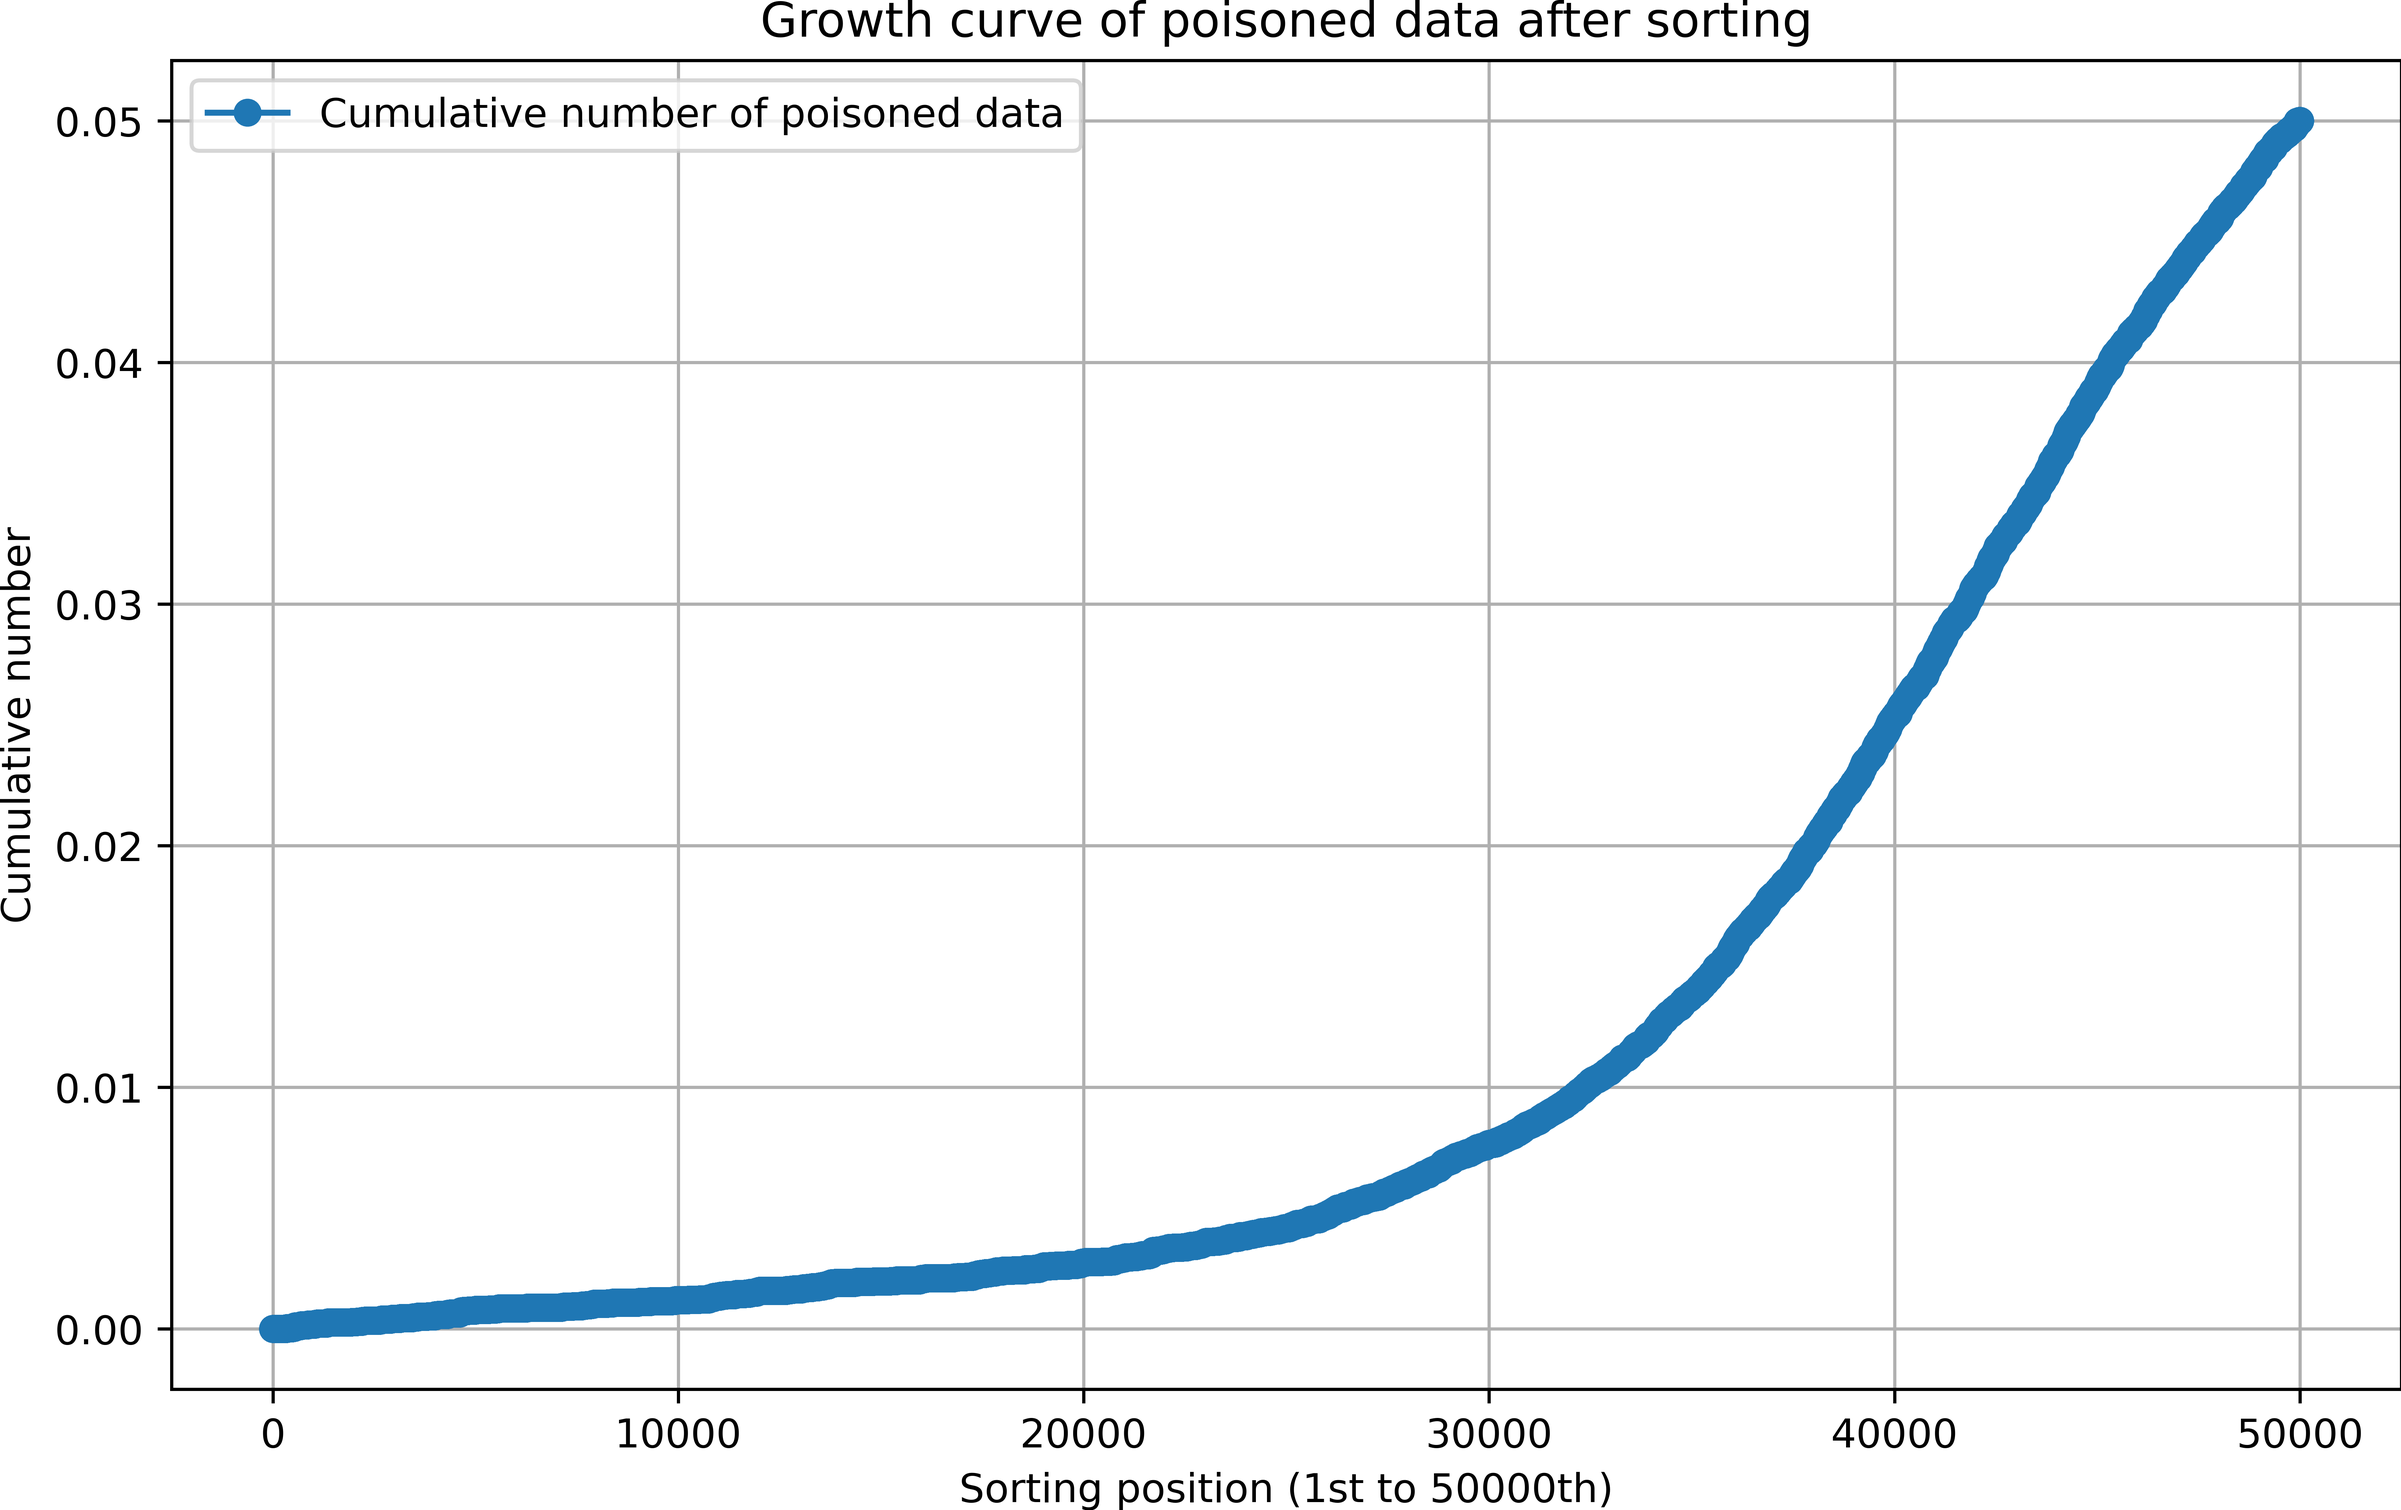
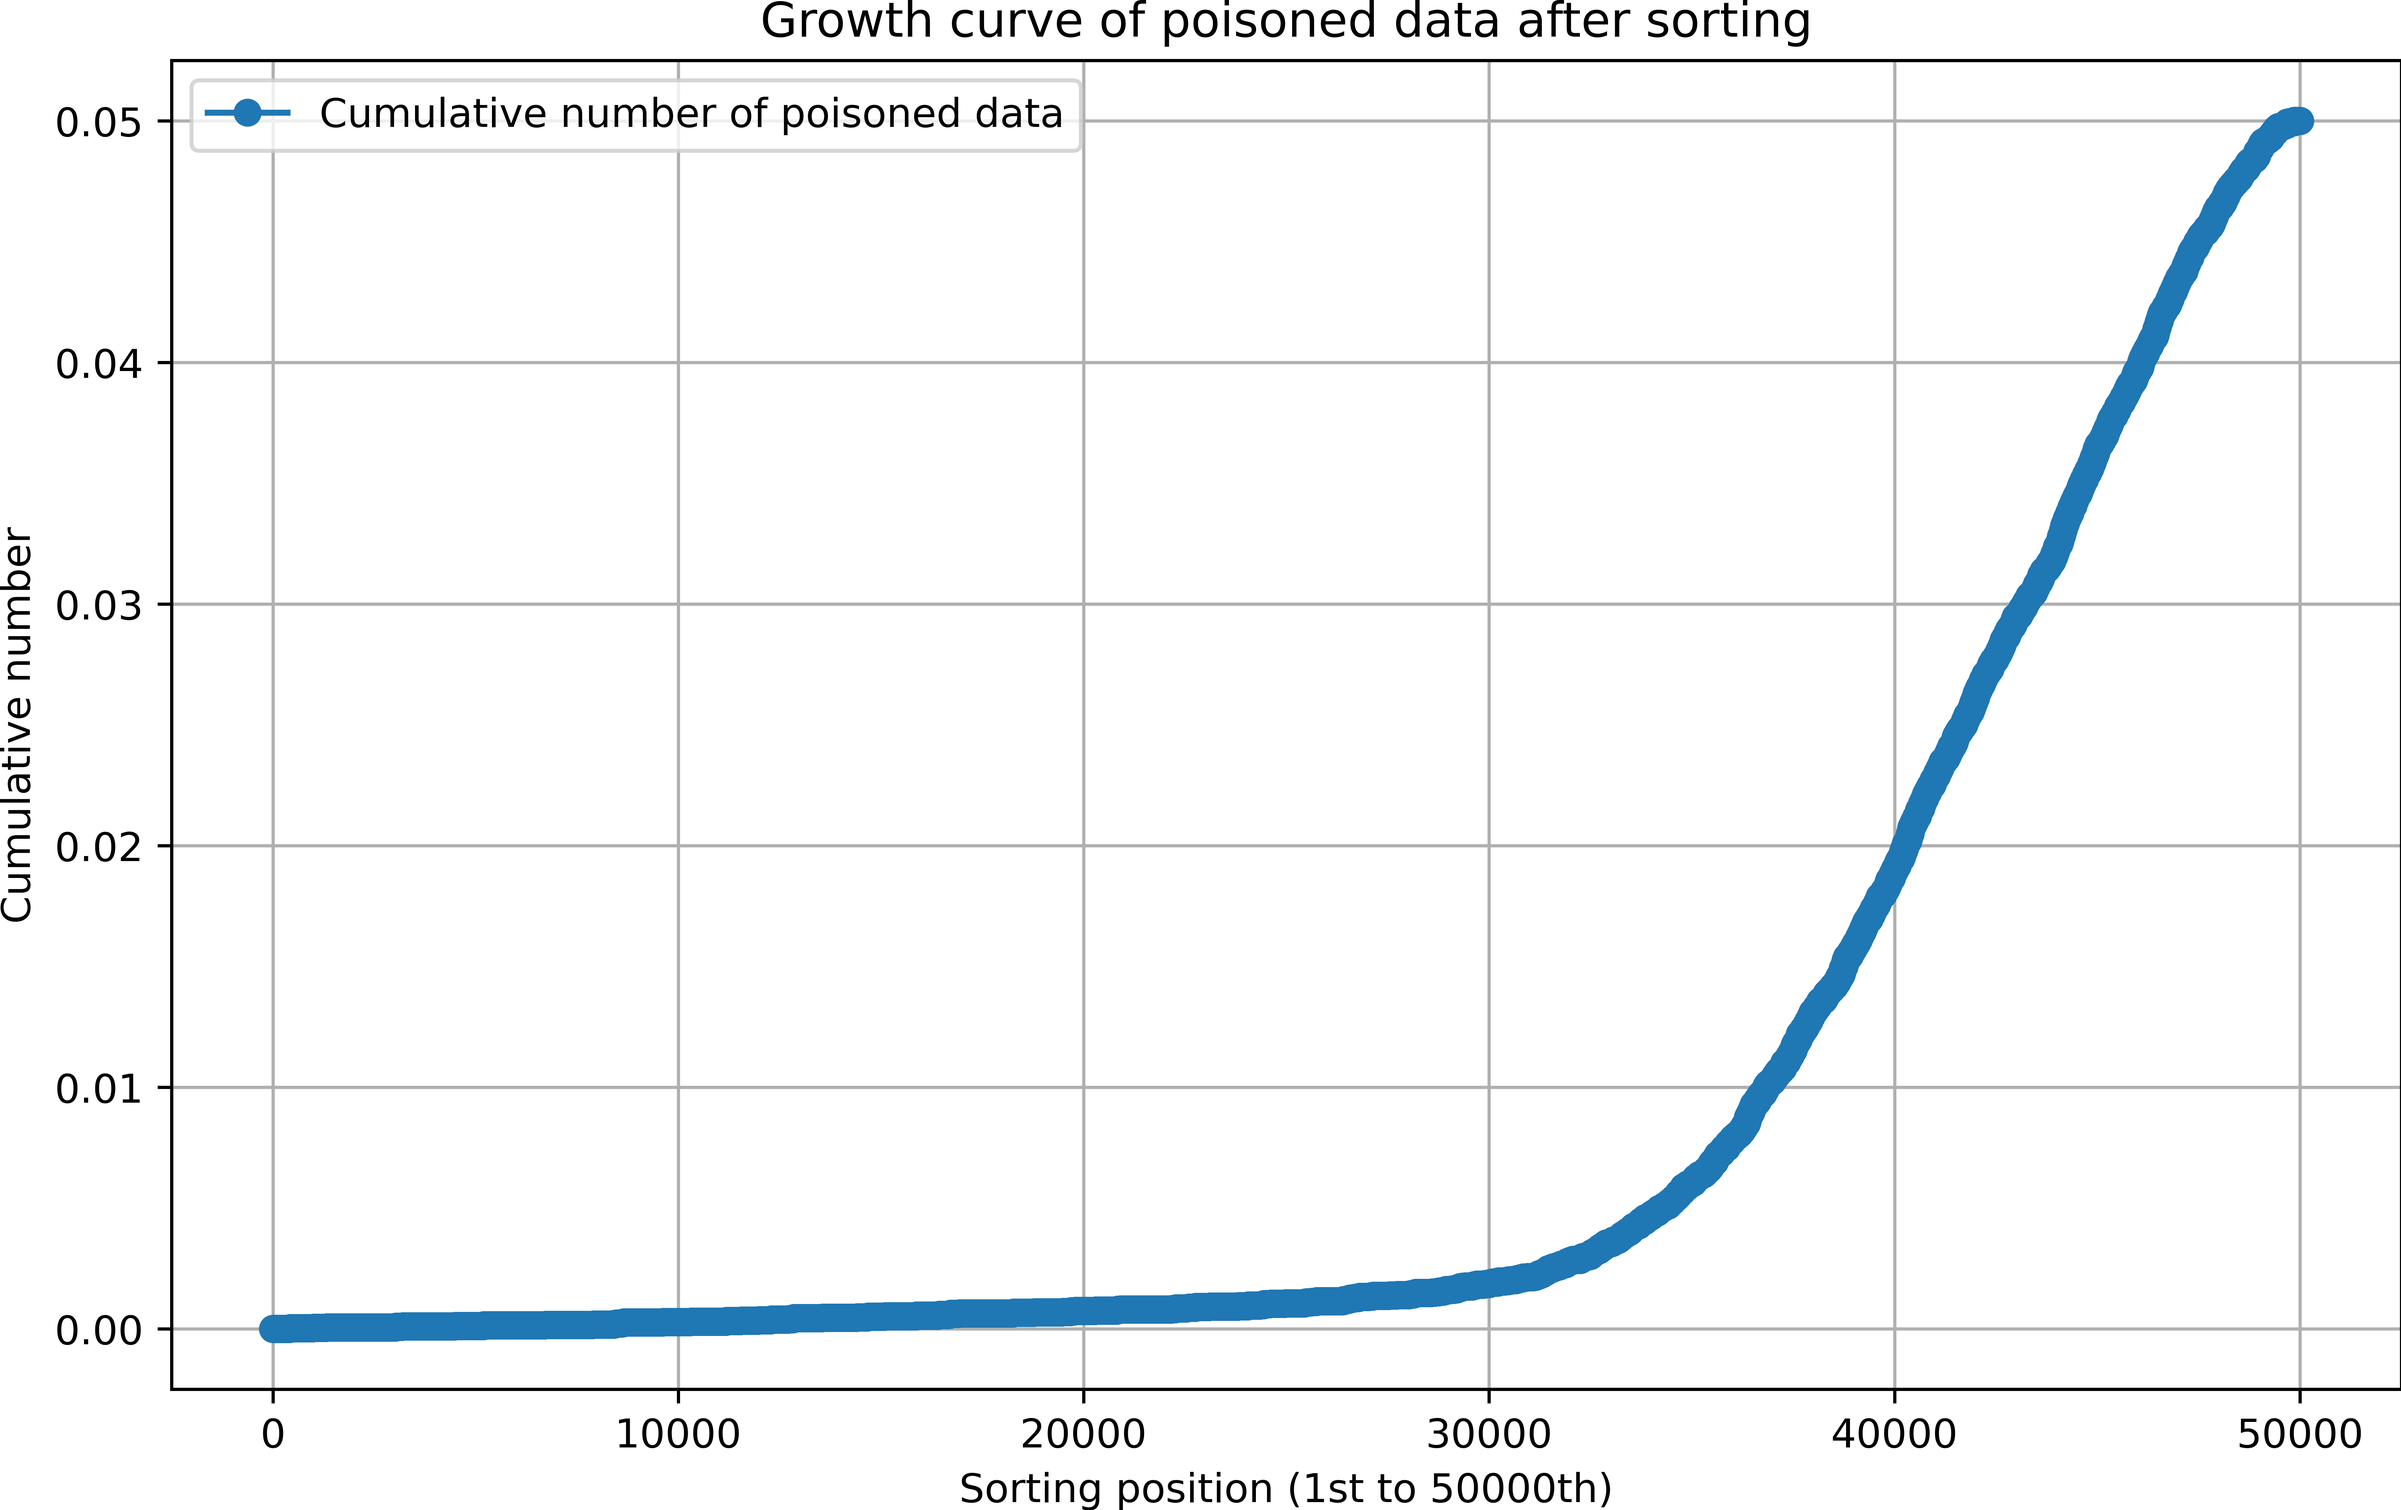
go

Changed region(s): [[0.1246, 0.1871, 0.9347, 0.9045], [0.592, 0.6862, 0.6854, 0.7798], [0.9035, 0.0624, 0.9658, 0.156]]

diff --git a/codes/ourMethod/defence.py b/codes/ourMethod/defence.py
@@ -316,6 +316,23 @@ def sampling_3(samples_num:int,ranked_sample_idx_array, cls_rank:list, label_lis
        seletcted_sample_id_list.append(s_id)
     return seletcted_sample_id_list
 
+def sampling_4(samples_num:int, loss_list:list, label_list:list, cls_rank:list) -> list:
+    # 得到label的权重系数，越大越可疑
+    coeff_dict = get_class_risk_coef(cls_rank)
+    weigth_list = []
+    for sample_id in range(len(loss_list)):
+        # loss越大越可疑
+        loss_value = loss_list[sample_id]
+        label_value = label_list[sample_id]
+        label_coeff = coeff_dict[label_value]
+        weight = loss_value * label_coeff
+        weigth_list.append(weight)
+    ranked_sample_id_list =  np.array(weigth_list).argsort().tolist()
+    seletcted_sample_id_list = ranked_sample_id_list[:samples_num]
+    return seletcted_sample_id_list
+
+
+
 def defence_train(
         model, # victim model
         class_num, # 分类数量
@@ -400,7 +417,7 @@ def defence_train(
             record_list = poison_linear_record(model, poisoned_eval_dataset_loader, split_criterion, device,dataset_name=kwargs["dataset_name"], model_name =kwargs["model_name"])
             print("Mining clean data by class-agnostic loss-guided split...")
             # 将trainset对半划分为clean pool和poisoned pool
-            split_indice =  class_agnostic_loss_guided_split(record_list, 0.5, poisoned_ids, sampling_method="method_3", class_prob_map=None, classes_rank = classes_rank) # class_prob_map=class_prob_map
+            split_indice =  class_agnostic_loss_guided_split(record_list, 0.5, poisoned_ids, sampling_method="method_4", class_prob_map=None, classes_rank = classes_rank) # class_prob_map=class_prob_map
             xdata = MixMatchDataset(poisoned_train_dataset, split_indice, labeled=True)
             udata = MixMatchDataset(poisoned_train_dataset, split_indice, labeled=False)
         elif epoch < total_epoch: # epoch:[90,120]
@@ -466,7 +483,7 @@ def defence_train(
 
             # 开始干净样本的挖掘
             print("Mining clean data by meta-split...")
-            split_indice = meta_split(record_list, meta_record_list, 0.5, poisoned_ids, sampling_method="method_3", class_prob_map=None, classes_rank = classes_rank)
+            split_indice = meta_split(record_list, meta_record_list, 0.5, poisoned_ids, sampling_method="method_4", class_prob_map=None, classes_rank = classes_rank)
 
             xdata = MixMatchDataset(poisoned_train_dataset, split_indice, labeled=True)
             udata = MixMatchDataset(poisoned_train_dataset, split_indice, labeled=False)  
@@ -644,6 +661,12 @@ def class_agnostic_loss_guided_split(record_list, ratio, poisoned_indice, sampli
         # 计算采样数
         samples_num = int(len(ranked_sample_idx_array)*ratio)
         total_indice = sampling_3(samples_num,ranked_sample_idx_array,classes_rank,gt_label_array)
+    elif sampling_method == "method_4":
+        assert classes_rank is not None, "参数不匹配"
+        loss_list = loss.tolist()
+        label_list = gt_label_array.tolist()
+        samples_num = int(len(loss_list)*ratio)
+        total_indice = sampling_4(samples_num, loss_list, label_list, classes_rank)
     else:
         total_indice = loss.argsort()[: int(len(loss) * ratio)]
     # 统计构建出的clean pool 中还混有污染样本的数量
@@ -655,7 +678,7 @@ def class_agnostic_loss_guided_split(record_list, ratio, poisoned_indice, sampli
         "{}/{} poisoned samples in clean data pool".format(poisoned_count, len(total_indice))
     )
     clean_pool_flag[total_indice] = 1
-    
+    '''
     # 额外分析与可视化
     sampling_analyse(
         loss_array = loss,
@@ -663,6 +686,7 @@ def class_agnostic_loss_guided_split(record_list, ratio, poisoned_indice, sampli
         sample_idx_array = total_indice,
         gt_label_array = gt_label_array
         )
+    '''
     
     return clean_pool_flag
 
@@ -700,6 +724,12 @@ def meta_split(record_list, meta_record_list, ratio, poisoned_indice, sampling_m
         # 计算采样数
         samples_num = int(len(ranked_sample_idx_array)*ratio)
         total_indice = sampling_3(samples_num,ranked_sample_idx_array,classes_rank,gt_label_array)
+    elif sampling_method == "method_4":
+        assert classes_rank is not None, "参数不匹配"
+        loss_list = loss.tolist()
+        label_list = gt_label_array.tolist()
+        samples_num = int(len(loss_list)*ratio)
+        total_indice = sampling_4(samples_num, loss_list, label_list, classes_rank)
     else:
         total_indice = loss.argsort()[: int(len(loss) * ratio)]
     poisoned_count = 0

diff --git a/codes/ourMethod/detect_suspicious_classes/detector.py b/codes/ourMethod/detect_suspicious_classes/detector.py
@@ -234,11 +234,13 @@ def detect_by_precision(df:pd.DataFrame,class_num:int,mutated_model_global_id_li
             stat_measure = round(np.var(measure_list),4)
         item = (stat_measure,class_i)
         priority_queue.put(item)
-    # 获得类别排名
+    # 获得类别排名,值越小优先级越大（小根堆）
     priority_list = priorityQueue_2_list(priority_queue)
     classes_rank = [class_i for priority,class_i in priority_list]
+    classes_priority = [priority for priority,class_i in priority_list]
     target_class_ranking_percent = round((classes_rank.index(config.target_class_idx)+1)/len(classes_rank),3)
-    return classes_rank,target_class_ranking_percent
+
+    return classes_rank, target_class_ranking_percent
 
 def detect_by_recall(df:pd.DataFrame,class_num:int,mutated_model_global_id_list:list[int],stat_name="mean"):
     '''

diff --git a/codes/config.py b/codes/config.py
@@ -41,10 +41,10 @@ dataset_name = "CIFAR10" # CIFAR10, GTSRB, ImageNet2012_subset
 # 数据集分类任务数量
 class_num = 10 #  CIFAR-10:10,GTSRB:43,ImageNet2012_subset:30
 # 当前实验设置的模型名字
-model_name = "ResNet18"
+model_name = "ResNet18" # ResNet18, VGG19, DenseNet
 # 当前实验设置的攻击
-attack_name = "BadNets"
-# GPU设备
+attack_name = "WaNet" # BadNets, IAD, Refool, WaNet
+# GPU设备 
 gpu_id = 1
 
 
@@ -53,7 +53,7 @@ asd_config = {
     "CIFAR10":{
         "epoch":120
     },
-    "GTSRB":{
+    "GTSRB":{ 
         "epoch":100
     },
     "ImageNet2012_subset":{

diff --git a/codes/test.py b/codes/test.py
@@ -91,8 +91,20 @@ def test18():
     b = (10-2)/10
     print(a,b)
 
+def test19():
+    a = np.array([3,1,5])
+    a.argsort()
+    print(a)
+    np.argsort(a)
+    print(a)
+    np.sort(a) # no replace
+    # a.sort() # replace
+    print(a)
+    a.tolist()
+    print(type(a))
+
 if __name__ == "__main__":
-    test18()
+    test19()
 
 
 

diff --git a/codes/ourMethod/OurMethod_defence_train.py b/codes/ourMethod/OurMethod_defence_train.py
@@ -55,6 +55,7 @@ poisoned_ids = backdoor_data["poisoned_ids"]
 poisoned_testset = backdoor_data["poisoned_testset"] # 预制的poisoned_testset
 # 得到一个raw model
 victim_model = get_model(dataset_name=config.dataset_name, model_name=config.model_name)
+
 '''
 # 加载stage1后(epoch=59完成后)的模型权重
 # 权重路径

diff --git a/codes/ourMethod/detect_suspicious_classes/get_suspicious.py b/codes/ourMethod/detect_suspicious_classes/get_suspicious.py
@@ -51,8 +51,8 @@ def get_suspicious_classes_by_ScottKnottESD(data_dict):
 
 if __name__ == "__main__":
     data_dict = {
-        0:[4,4,4,4],
-        1:[4,4,4,4],
+        "col_0":[3,3,3,3],
+        "col_1":[4,4,4,4],
     }
     get_suspicious_classes_by_ScottKnottESD(data_dict)
     # result = sp.posthoc_ske(data_dict)
